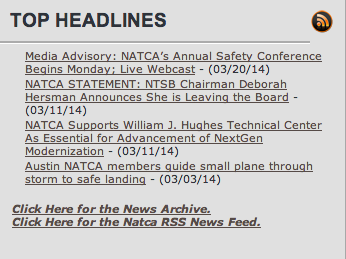
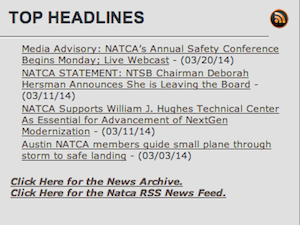
refonte credit + home pilot

diff --git a/web/fr/pilot/js/payment-viewmodel.js b/web/fr/pilot/js/payment-viewmodel.js
@@ -2,9 +2,7 @@
     function (ko, typeahead, services, autocompleteAirbase, airbase, plane, serviceForfait, serviceTonnage, landing, utils) {
         return function paymentVM(baseVM) {
             var self = this;
-            var flag_paymentType = 0;
-            var msg_higherThan0 = "Merci de Saisir un montant supérieur à 0";
-            var msg_radioBoxChecked = "Merci de choisir l'un des 2 modes de paiement";
+            //var flag_paymentType = 0;
 
 
             /******************
@@ -26,6 +24,7 @@
 
 
             //NOT OBSERVABLES
+            self.flag_paymentType = 0;
             self.montantCredit = ko.observable();
 
             self.paypal = ko.observable(false);
@@ -76,19 +75,15 @@
             //SERVICES
             self.crediterCompte = function () {
                 if (self.allValidator()) {    /*** [LA VERIF PAR ALERT DEGUEU JARTERA] ***/
-                    //Test value to make sure it doesn't equal 0
                     if (self.montantCredit() == "0" || self.montantCredit() == "" || self.montantCredit() == null)
                         alert(msg_higherThan0);
-                    //Confirm that the radio Box is Checked for the Payment Mode
                     else if ($('input[type=radio]:checked').length == 0)
                         alert(msg_radioBoxChecked);
                     else {
-                        //Paypal Choice [Placeholder]
                         if (flag_paymentType == 1) {
                             var url = "templates/credit_paypal.htm?pilotAccount_id=" + encodeURIComponent(self.pilot().id()) + "&price=" + encodeURIComponent(self.montantCredit());
                             window.location.href = url;
                         }
-                        //Credit Card [Placeholder]
                         else {
                             var url = "templates/credit_creditCard.htm?pilotAccount_id=" + encodeURIComponent(self.pilot().id()) + "&price=" + encodeURIComponent(self.montantCredit());
                             window.location.href = url;
@@ -135,7 +130,6 @@
                 if (self.landing().allInputsFilled()) {
                     self.getServicesByAirbase(self.landing().airbase().id(), function () {
                         self.errorForm(false);
-                       // $.cookie('currentStep', "avion", { expires: 7, path: '/' });
 							self.currentStep("avion");
                     });
                 } else {
@@ -151,7 +145,6 @@
                         if (self.services()[i].type() === "tonnage")
                             self.services()[i].aircraftWeight(self.plane().weight());
                     }
-                   // $.cookie('currentStep', "services", { expires: 7, path: '/' });
                       self.currentStep("services");
                 } else {
                     self.errorForm(true);
@@ -160,7 +153,6 @@
 
             self.previousStepPlaneButton = function () {
                 self.currentStep("atterissage");
-                  //$.cookie('currentStep', "atterissage", { expires: 7, path: '/' });
                   self.currentStep("atterissage");
             };
 
@@ -169,13 +161,11 @@
                     return left.name() == right.name() ? 0 : (left.name() < right.name() ? -1 : 1)
                 })
                 self.currentStep("validation");
-                //$.cookie('currentStep', "validation", { expires: 7, path: '/' });
                   self.currentStep("validation");
             };
 
             self.previousStepServicesButton = function () {
                 self.currentStep("avion");
-                //$.cookie('currentStep', "avion", { expires: 7, path: '/' });
                   self.currentStep("avion");
             };
 
@@ -187,7 +177,6 @@
 
             self.previousStepValidationButton = function () {
                 self.currentStep("services");
-                //$.cookie('currentStep', "services", { expires: 7, path: '/' });
                  self.currentStep("services");
             };
             //Paiement
@@ -227,9 +216,10 @@
 				
             }
 
-            self.previousStepPaiementButton = function () {
-                self.currentStep("validation");
-                self.currentStep("validation");
+            self.cancelPaiementButton = function () {
+                $.cookie("currentStep", "atterissage");
+                $.cookie("total", null);
+                window.location.hash = "#payer"
             };
 
             self.updateAirbaseSelected = ko.computed(function () {

diff --git a/web/fr/pilot/js/credit-viewmodel.js b/web/fr/pilot/js/credit-viewmodel.js
@@ -15,7 +15,7 @@ define(["knockout" ,"common/js/services-ajax"], function (ko ,services) {
 		******************/
 
 		self.pilotAccount = ko.observable(baseVM.currentPilot());
-		self.montantCredit=ko.observable();
+		self.montantCredit=ko.observable(0);
 		
 		self.paypal = ko.observable(false);
 		self.checkPaypal = function() {
@@ -27,31 +27,7 @@ define(["knockout" ,"common/js/services-ajax"], function (ko ,services) {
 		self.checkCreditCard = function() {
 				   flag_paymentType = 2;
 				   return true;
-				}  
-		
-		ko.bindingHandlers.numeric = {
-			init: function (element, valueAccessor) {
-				$(element).on("keydown", function (event) {
-					// Allow: backspace, delete, tab, escape, and enter
-					if (event.keyCode == 46 || event.keyCode == 8 || event.keyCode == 9 || event.keyCode == 27 || event.keyCode == 13 ||
-						// Allow: Ctrl+A
-						(event.keyCode == 65 && event.ctrlKey === true) ||
-						// Allow: . ,
-						(event.keyCode == 188 || event.keyCode == 190 || event.keyCode == 110) ||
-						// Allow: home, end, left, right
-						(event.keyCode >= 35 && event.keyCode <= 39)) {
-						// let it happen, don't do anything
-						return;
-					}
-					else {
-						// Ensure that it is a number and stop the keypress
-						if (event.shiftKey || (event.keyCode < 48 || event.keyCode > 57) && (event.keyCode < 96 || event.keyCode > 105)) {
-							event.preventDefault();
-						}
-					}
-				});
-			}
-		};
+				}
 
 		/******************
 		 NON-OBSERVABLES
@@ -87,6 +63,13 @@ define(["knockout" ,"common/js/services-ajax"], function (ko ,services) {
 				alert("Les champs n'ont pas tous été saisis");
 			};
 		}
+
+        self.checkMontantCredit = ko.computed(function(){
+            if(self.montantCredit() < 0) self.montantCredit(0);
+            if(isNaN(self.montantCredit())) self.montantCredit(0);
+            if(self.montantCredit() === "") self.montantCredit(0);
+
+        });
 		 
 		 self.allValidator = ko.computed(function(){
 			 return true;

diff --git a/web/fr/pilot/templates/credit.html b/web/fr/pilot/templates/credit.html
@@ -1,20 +1,25 @@
 <script type="text/html" id="credit-pilot-template">
 	 <section id="contenu">
-        <h1>Créditer mon Compte</h1>
+        <h2>Créditer mon Compte</h2>
 
 		<!-- ko with: pilotAccount -->
-		<h2 >Mon crédit actuel: <span id="credit" data-bind="text :  credit"><span></h2>Euros
+        <div class="row">
+            <label class="col-md-2">Mon crédit actuel</label>
+            <div class="col-md-2">
+                <span data-bind="text: creditEuros"></span>
+            </div>
+        </div>
+
+		 <!--<span id="credit" data-bind="text: creditEuros"><span></h2>-->
 		<!-- /ko -->
 		<i id="msg" style="display:none;"><li font="red">Merci de saisir un montant correct</li></i>
-		<br />
-		<br />	
-		<br />	
-		<br />
-		<form id="form" role="form">
+		<form id="form" class="form-horizontal" role="form">
 		 	<div class="form-group">
-				<label for="name">Montant à créditer</label>
-				<input data-bind="numeric: number, value: montantCredit" id="montantCredit" type="text" name="montantCredit" class="form-control" placeholder="Entrer montant"/>
-				
+				<label class="col-md-2" for="montantCredit">Montant à créditer</label>
+                <div class="col-md-2">
+                        <input id="montantCredit" class="form-control" data-bind="value: montantCredit"  type="number" name="montantCredit" placeholder="Entrer montant"/>
+                </div>
+            </div>
 				<div>
 					<img src="images/paypal_logo.png" alt="paypal_logo"><input type="radio" name="payment" data-bind="checked: paypal, click:checkPaypal" checked> Paiement Paypal<br>
 					<img src="images/creditCard_logo.png" alt="creditCard_logo"><input id="creditCard" type="radio" name="payment" data-bind="checked: creditCard, click:checkCreditCard"> Paiement par CB<br>

diff --git a/web/fr/pilot/templates/home.html b/web/fr/pilot/templates/home.html
@@ -3,11 +3,9 @@
         <div id="home">
             <h1>Accueil</h1>
             <div class="row">
-                <div class="date-widget img-responsive col-md-5"></div>
-                <div class="meteo-widget img-responsive col-md-5 col-md-offset-3"></div>
-            </div>
-            <div class="row">
-                <div class="news-widget img-responsive col-md-4 col-md-offset-4"></div>
+                <div class="date-widget img-responsive col-md-2"></div>
+                <div class="news-widget img-responsive col-md-2 col-md-offset-1"></div>
+                <div class="meteo-widget img-responsive col-md-2 col-md-offset-1"></div>
             </div>
         </div>
     </section>

diff --git a/web/fr/pilot/css/home.css b/web/fr/pilot/css/home.css
@@ -27,8 +27,8 @@
 
 #home .news-widget{
     background-image: url("../img/news-widget.png");
-    width: 346px;
-    height: 259px;
+    width: 300px;
+    height: 225px;
     border-radius: 5px;
     border: 1px solid #a0a0a0;
     box-shadow: 1px 1px 8px #bcbcbc;

diff --git a/web/fr/common/model/pilot.js b/web/fr/common/model/pilot.js
@@ -12,6 +12,6 @@ define(["knockout"], function (ko) {
         self.creditEuros = ko.computed(function(){
             if(self.credit())
                 return self.credit().toFixed(2)+"€";
-        })
+        });
     }
 });
